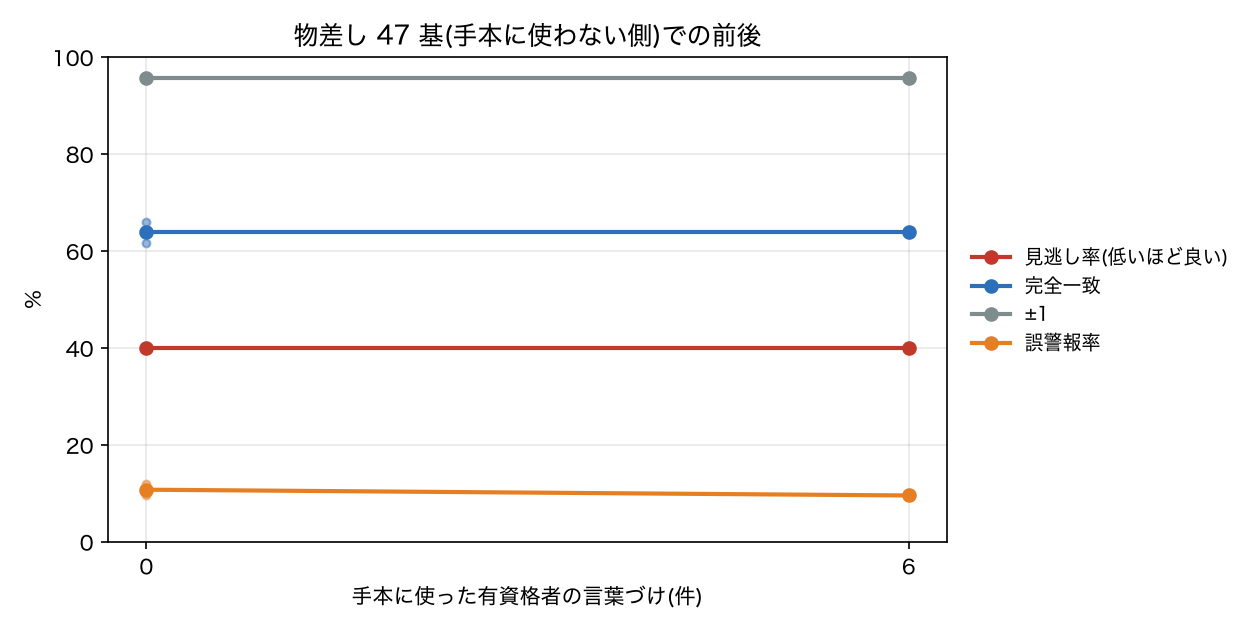
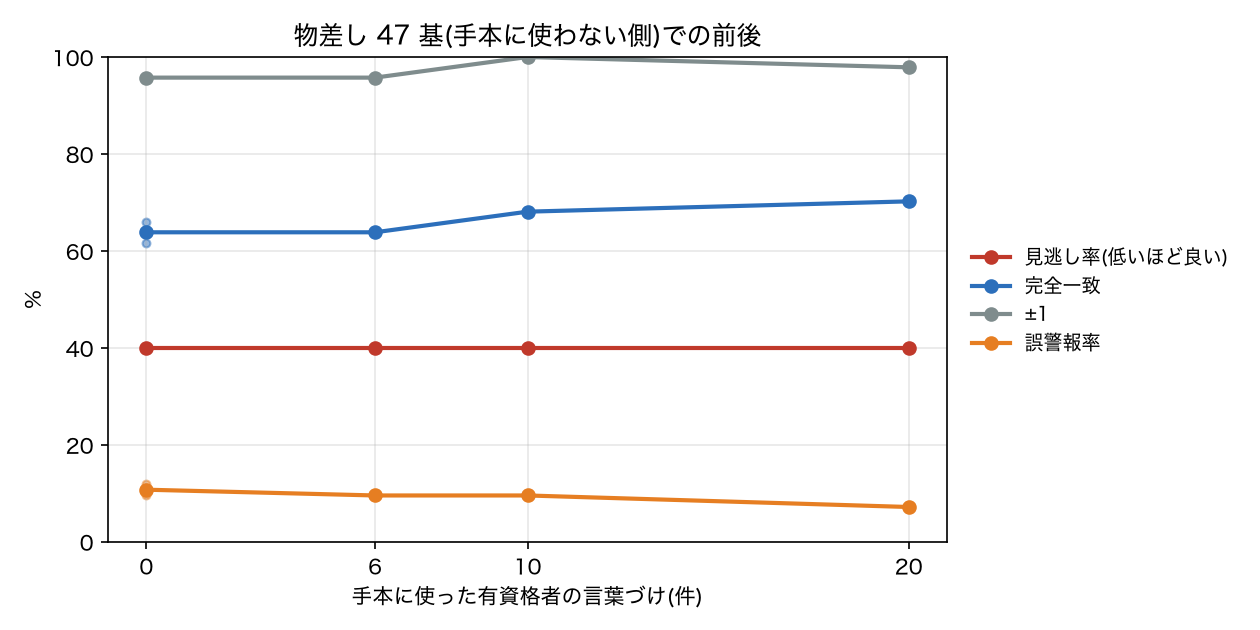
docs/EVAL: section 8 stage-2 learning curve (expert notes 10 / 20 on the 47 measure-side signs) + curve PNG
Claude-Session: https://claude.ai/code/session_01R1KDgEXGxGv1L6DL9Wf7ZV

diff --git a/docs/EVAL.md b/docs/EVAL.md
@@ -197,10 +197,14 @@ python3 -m kanban_karte.eval.run_eval --judge oracle --source xlsx_karte --limit
 | 手本なし(2026-11-02 c2 の予測を切り出し) | 66.0% | 95.7% | 40.0%(2/5) | 9.5%(4/42) | 0 | ($0.67) |
 | 手本なし(2026-11-02 再実行の予測を切り出し) | 61.7% | 95.7% | 40.0%(2/5) | 11.9%(5/42) | 0 | ($0.67) |
 | 手本 6 件+規則の候補(2026-11-06) | 63.8% | 95.7% | 40.0%(2/5) | 9.5%(4/42) | 15 | $0.94 |
+| 手本 10 件+規則の候補(2026-11-06 2 段目) | 68.1% | 100.0% | 40.0%(2/5) | 9.5%(4/42) | 16 | $0.94 |
+| 手本 20 件+規則の候補(2026-11-06 2 段目、手本の側の全件) | 70.2% | 97.9% | 40.0%(2/5) | 7.1%(3/42) | 16 | $0.85 |
 
 ![物差し 47 基での前後](img/expert_curve.png)
 
-1 段目は言葉づけが 10 件(手本の側 6 件)の時点で回した。差は、手本なしの 2 回の間の揺れ(完全一致 61.7〜66.0%)の中に収まっていて、効いたとも効かなかったとも言えない。物差しの要対応は 5 基しかなく、見逃し率は 1 基で 20 ポイント動く。見逃した 2 基には、重なる手本が無かった(見せた件数 0)。手本 10 / 25 / 50 件の学習曲線(2 段目)は、言葉づけが増えてから同じ設定で回して、この表と図を更新する。
+1 段目は言葉づけが 10 件(手本の側 6 件)の時点で回した。差は、手本なしの 2 回の間の揺れ(完全一致 61.7〜66.0%)の中に収まっていて、効いたとも効かなかったとも言えない。物差しの要対応は 5 基しかなく、見逃し率は 1 基で 20 ポイント動く。見逃した 2 基には、重なる手本が無かった(見せた件数 0)。手本 10 / 25 / 50 件の学習曲線(2 段目)は、同じ設定で 2026-11-06 13:10 に回した。
+
+2 段目は言葉づけを id ≤ 53 で固定した(評価セット 53 件のうち、文章のある 33 件= 手本の側 20・物差しの側 13。残り 20 件はランクだけで手本に使えない)。手本の側が 20 件しかないので、点は 0 / 6 / 10 / 20。完全一致は 61.7〜66.0%(手本なし)→ 68.1%(10 件)→ 70.2%(20 件)と上がり、誤警報は 4〜5/42 → 3/42 に下がった。ただし 20 件の点でも手本なしの揺れの上端から 4.2 ポイント(2 基)の差で、1 回ずつしか回していないので、効いたと言い切るには足りない。見逃しは 2/5 のまま動かない。見逃した 2 基のうち 1 基は重なる手本が無く(見せた件数 0)、もう 1 基は手本を 2 件見せても正解 3 を 1 と判定した。手本 50 件の点は、言葉づけが 100 件に届いたら足す。
 
 ## 日ごとの測定記録
 
